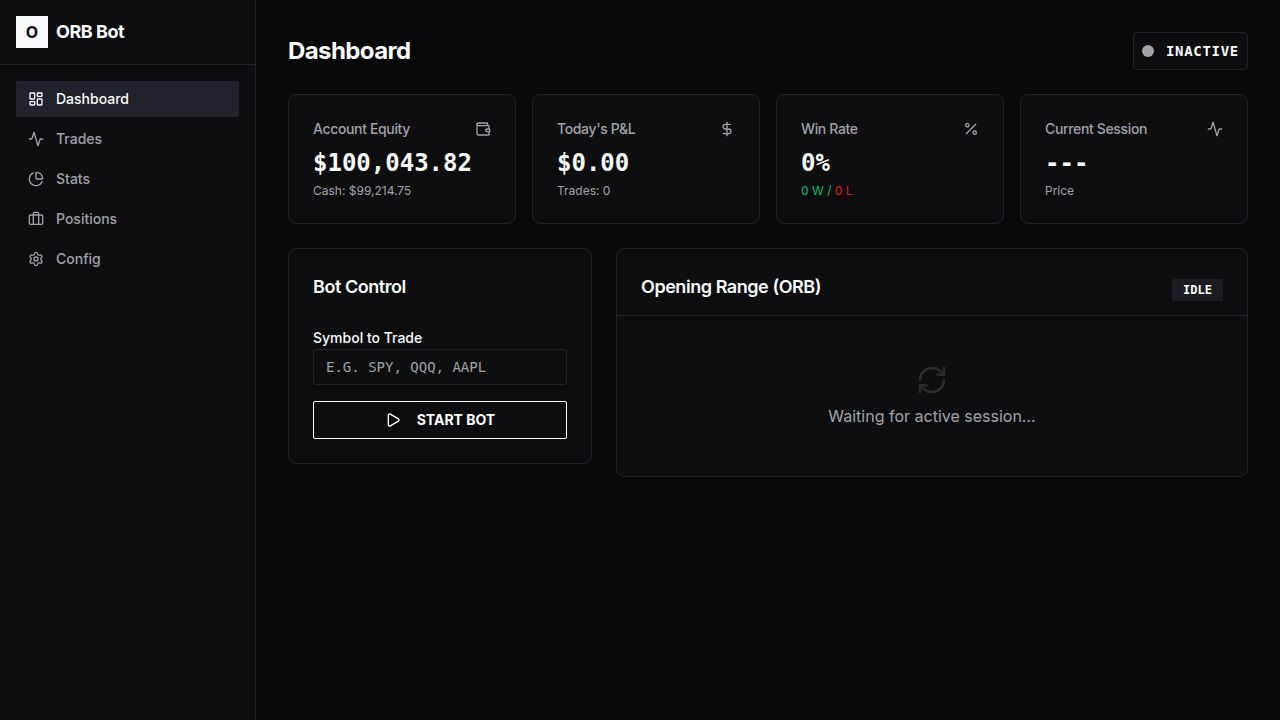
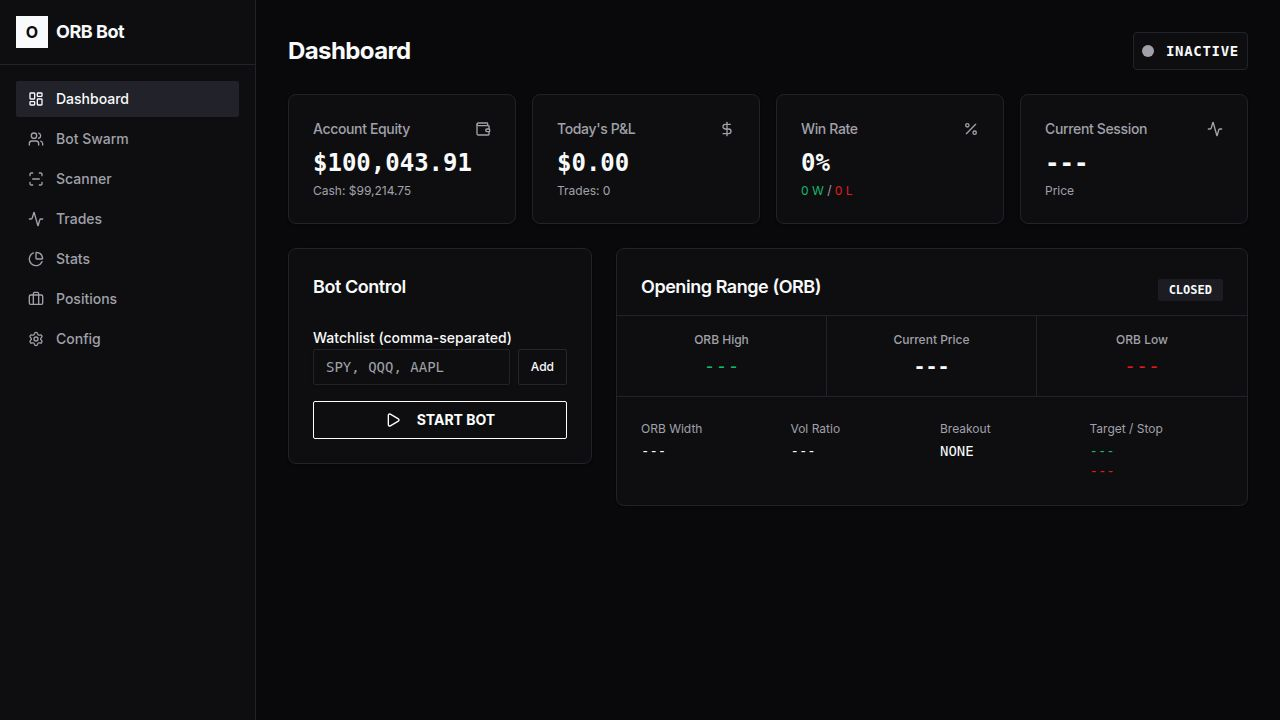
Task #2: Multi-bot dashboard UI — complete full-stack swarm control
All five frontend files changed in this task:

### dashboard.tsx
- Removed legacy useStartBot; all starts now route through useStartBots (POST /bots/start)
- handleStart() merges watchlist chips + inline input into one multi-symbol call
- Button label: "START BOT" for single symbol, "START ALL (N)" for multiple
- Swarm aggregate stats: combined P&L, win rate, active bot count from useListBots
- Active swarm sidebar with per-bot phase badges + P&L
- Status badge: "SWARM: N BOTS ACTIVE" overrides legacy "INACTIVE" when child bots run
- ORB panel hints user to visit Bot Swarm page when swarm is active

### bots.tsx (Bot Swarm page)
- Upgraded from useCreateBot (single) → useStartBots (batch POST /bots/start)
- Multi-symbol watchlist chip UI: type symbols, press Add/Enter/comma to queue chips
- "Launch All (N)" button when multiple symbols queued; "Launch" for single
- BotCard: per-bot stop + spawn-offspring buttons, phase badge, gen badge
- Summary stats bar: total bots, in-trade count, swarm total P&L, max generation
- Empty state with helpful message; skeleton loaders

### scanner.tsx (Gap Scanner page)
- Replaced useCreateBot → useStartBots for per-row "Launch" buttons
- Ranked candidates table: gap%, price, rel vol, prev close
- Top picks highlighted with Star badge
- "Scan Now" + "Auto-Start Bots" header buttons
- Summary cards: scanned count, top picks, gap up/down counts
- 30-second auto-refetch for live results

### config.tsx (Bot Configuration page)
[…]

diff --git a/artifacts/orb-dashboard/src/pages/bots.tsx b/artifacts/orb-dashboard/src/pages/bots.tsx
@@ -1,6 +1,6 @@
 import {
   useListBots,
-  useCreateBot,
+  useStartBots,
   useStopAllBots,
   useStopBot2,
   useSpawnOffspring,
@@ -24,6 +24,7 @@ import {
   TrendingDown,
   CircleDot,
   Users,
+  X,
 } from "lucide-react";
 
 function phaseColor(phase: string) {
@@ -198,15 +199,18 @@ export default function Bots() {
   const { toast } = useToast();
   const queryClient = useQueryClient();
   const [symbolInput, setSymbolInput] = useState("");
+  const [watchlist, setWatchlist] = useState<string[]>([]);
 
   const { data: bots = [], isLoading } = useListBots({
     query: { refetchInterval: 5000 },
   });
 
-  const createBot = useCreateBot({
+  const startBots = useStartBots({
     mutation: {
-      onSuccess: (bot) => {
-        toast({ title: `Bot started for ${bot.symbol}` });
+      onSuccess: (result) => {
+        const count = result.started?.length ?? 0;
+        toast({ title: `${count} bot${count !== 1 ? "s" : ""} started`, description: result.started?.map((b) => b.symbol).join(", ") });
+        setWatchlist([]);
         setSymbolInput("");
         queryClient.invalidateQueries({ queryKey: ["/api/bots"] });
       },
@@ -224,16 +228,28 @@ export default function Bots() {
     },
   });
 
+  const addSymbol = () => {
+    const syms = symbolInput.toUpperCase().split(/[\s,]+/).map((s) => s.trim()).filter(Boolean);
+    const toAdd = syms.filter((s) => !watchlist.includes(s));
+    if (toAdd.length > 0) setWatchlist((prev) => [...prev, ...toAdd]);
+    setSymbolInput("");
+  };
+
+  const removeSymbol = (sym: string) => setWatchlist((prev) => prev.filter((s) => s !== sym));
+
   const handleStart = () => {
-    if (!symbolInput.trim()) {
-      toast({ title: "Symbol required", variant: "destructive" });
+    const inputSyms = symbolInput.toUpperCase().split(/[\s,]+/).map((s) => s.trim()).filter(Boolean);
+    const combined = [...new Set([...watchlist, ...inputSyms])];
+    if (combined.length === 0) {
+      toast({ title: "Symbol required", description: "Enter at least one ticker symbol", variant: "destructive" });
       return;
     }
-    createBot.mutate({ data: { symbol: symbolInput.toUpperCase() } });
+    startBots.mutate({ data: { symbols: combined } });
   };
 
   const activeBots = bots.filter((b) => b.phase !== "closed");
   const inTrade = bots.filter((b) => b.phase === "in_trade");
+  const totalCount = watchlist.length + (symbolInput.trim() ? 1 : 0);
 
   return (
     <div className="space-y-6">
@@ -244,7 +260,7 @@ export default function Bots() {
             <CircleDot className={`h-3 w-3 ${activeBots.length > 0 ? "text-success animate-pulse" : "text-muted-foreground"}`} />
             <span>{activeBots.length} active</span>
             {inTrade.length > 0 && (
-              <span className="text-success font-semibold">{inTrade.length} in trade</span>
+              <span className="text-success font-semibold ml-1">{inTrade.length} in trade</span>
             )}
           </div>
           {bots.length > 0 && (
@@ -260,7 +276,6 @@ export default function Bots() {
         </div>
       </div>
 
-      {/* Summary stats */}
       {bots.length > 0 && (
         <div className="grid grid-cols-2 md:grid-cols-4 gap-3">
           <Card className="bg-card">
@@ -297,7 +312,6 @@ export default function Bots() {
         </div>
       )}
 
-      {/* Launch control */}
       <Card className="bg-card border-border">
         <CardHeader className="pb-2">
           <CardTitle className="text-base flex items-center gap-2">
@@ -305,30 +319,50 @@ export default function Bots() {
           </CardTitle>
         </CardHeader>
         <CardContent>
-          <div className="flex gap-2">
+          <div className="flex gap-2 mb-2">
             <Input
               placeholder="SPY, QQQ, AAPL ..."
               className="font-mono uppercase max-w-xs"
               value={symbolInput}
               onChange={(e) => setSymbolInput(e.target.value)}
-              onKeyDown={(e) => e.key === "Enter" && handleStart()}
+              onKeyDown={(e) => {
+                if (e.key === "Enter" || e.key === ",") {
+                  e.preventDefault();
+                  addSymbol();
+                }
+              }}
             />
+            <Button variant="outline" size="sm" onClick={addSymbol} disabled={!symbolInput.trim()}>
+              Add
+            </Button>
             <Button
               className="bg-success hover:bg-success/90 text-white font-bold"
               onClick={handleStart}
-              disabled={createBot.isPending}
+              disabled={startBots.isPending}
             >
-              <Play className="h-4 w-4 mr-1" /> Launch
+              <Play className="h-4 w-4 mr-1" />
+              {totalCount > 1 ? `Launch All (${totalCount})` : "Launch"}
             </Button>
           </div>
-          <p className="text-xs text-muted-foreground mt-2">
-            Each bot independently tracks its own ORB breakout and evolves its parameters after {" "}
+          {watchlist.length > 0 && (
+            <div className="flex flex-wrap gap-1.5 mb-2">
+              {watchlist.map((sym) => (
+                <span key={sym} className="inline-flex items-center gap-1 px-2 py-0.5 rounded bg-primary/10 text-primary border border-primary/20 text-xs font-mono font-semibold">
+                  {sym}
+                  <button onClick={() => removeSymbol(sym)} className="hover:text-danger transition-colors">
+                    <X className="h-2.5 w-2.5" />
+                  </button>
+                </span>
+              ))}
+            </div>
+          )}
+          <p className="text-xs text-muted-foreground mt-1">
+            Each bot independently tracks its own ORB breakout and evolves its parameters after{" "}
             <span className="text-foreground font-medium">N trades</span>.
           </p>
         </CardContent>
       </Card>
 
-      {/* Bot grid */}
       {isLoading ? (
         <div className="grid grid-cols-1 lg:grid-cols-2 gap-4">
           {[1, 2, 3].map((i) => (

diff --git a/artifacts/orb-dashboard/src/pages/dashboard.tsx b/artifacts/orb-dashboard/src/pages/dashboard.tsx
@@ -1,6 +1,5 @@
 import {
   useGetBotStatus,
-  useStartBot,
   useStopBot,
   useGetCurrentSession,
   useGetSessionSummary,
@@ -59,19 +58,6 @@ export default function Dashboard() {
   const { data: account, isLoading: loadingAccount } = useGetAccount({ query: { refetchInterval: 10000 } });
   const { data: swarmBots = [] } = useListBots({ query: { refetchInterval: 5000 } });
 
-  const startBot = useStartBot({
-    mutation: {
-      onSuccess: () => {
-        toast({ title: "Bot started successfully" });
-        queryClient.invalidateQueries({ queryKey: ["/api/bot/status"] });
-        queryClient.invalidateQueries({ queryKey: ["/api/bots"] });
-      },
-      onError: (err) => {
-        toast({ title: "Failed to start bot", description: String(err), variant: "destructive" });
-      },
-    },
-  });
-
   const startBots = useStartBots({
     mutation: {
       onSuccess: (result) => {
@@ -112,21 +98,20 @@ export default function Dashboard() {
 
   const removeSymbol = (sym: string) => setWatchlist((prev) => prev.filter((s) => s !== sym));
 
-  const handleStartAll = () => {
-    if (watchlist.length === 0) {
-      toast({ title: "No symbols", description: "Add at least one symbol to the watchlist", variant: "destructive" });
+  const handleStart = () => {
+    // Flush any pending input first
+    const inputSyms = symbolInput
+      .toUpperCase()
+      .split(/[\s,]+/)
+      .map((s) => s.trim())
+      .filter(Boolean);
+    const combined = [...new Set([...watchlist, ...inputSyms])];
+    if (combined.length === 0) {
+      toast({ title: "Symbol required", description: "Add at least one symbol to the watchlist", variant: "destructive" });
       return;
     }
-    startBots.mutate({ data: { symbols: watchlist } });
-  };
-
-  const handleStartSingle = () => {
-    const sym = symbolInput.trim().toUpperCase();
-    if (!sym) {
-      toast({ title: "Symbol required", description: "Please enter a symbol to trade", variant: "destructive" });
-      return;
-    }
-    startBot.mutate({ data: { symbol: sym } });
+    startBots.mutate({ data: { symbols: combined } });
+    setWatchlist([]);
     setSymbolInput("");
   };
 
@@ -326,24 +311,16 @@ export default function Dashboard() {
                     )}
                   </div>
 
-                  {watchlist.length > 1 ? (
-                    <Button
-                      className="w-full bg-success hover:bg-success/90 text-white font-bold"
-                      onClick={handleStartAll}
-                      disabled={startBots.isPending}
-                    >
-                      <Play className="mr-2 h-4 w-4" />
-                      START ALL ({watchlist.length})
-                    </Button>
-                  ) : (
-                    <Button
-                      className="w-full bg-success hover:bg-success/90 text-white font-bold"
-                      onClick={watchlist.length === 1 ? handleStartAll : handleStartSingle}
-                      disabled={startBot.isPending || startBots.isPending}
-                    >
-                      <Play className="mr-2 h-4 w-4" /> START BOT
-                    </Button>
-                  )}
+                  <Button
+                    className="w-full bg-success hover:bg-success/90 text-white font-bold"
+                    onClick={handleStart}
+                    disabled={startBots.isPending}
+                  >
+                    <Play className="mr-2 h-4 w-4" />
+                    {watchlist.length + (symbolInput.trim() ? 1 : 0) > 1
+                      ? `START ALL (${watchlist.length + (symbolInput.trim() ? 1 : 0)})`
+                      : "START BOT"}
+                  </Button>
                 </div>
               ) : (
                 <div className="space-y-4">

diff --git a/artifacts/orb-dashboard/src/App.tsx b/artifacts/orb-dashboard/src/App.tsx
@@ -11,25 +11,36 @@ import Positions from "./pages/positions";
 import Bots from "./pages/bots";
 import Scanner from "./pages/scanner";
 import NotFound from "./pages/not-found";
+import { useListBots } from "@workspace/api-client-react";
 
 const queryClient = new QueryClient();
 
+function NavBadge({ count }: { count: number }) {
+  if (count === 0) return null;
+  return (
+    <span className="ml-auto inline-flex items-center justify-center h-4 min-w-[1rem] px-1 rounded-full bg-success/20 text-success text-[10px] font-mono font-bold">
+      {count}
+    </span>
+  );
+}
+
 function Layout({ children }: { children: React.ReactNode }) {
   const [location] = useLocation();
+  const { data: bots = [] } = useListBots({ query: { refetchInterval: 10000 } });
+  const activeBotCount = bots.filter((b) => b.phase !== "closed").length;
 
   const navItems = [
-    { href: "/", label: "Dashboard", icon: LayoutDashboard },
-    { href: "/bots", label: "Bot Swarm", icon: Users },
-    { href: "/scanner", label: "Scanner", icon: ScanLine },
-    { href: "/trades", label: "Trades", icon: Activity },
-    { href: "/stats", label: "Stats", icon: PieChart },
-    { href: "/positions", label: "Positions", icon: Briefcase },
-    { href: "/config", label: "Config", icon: Settings },
+    { href: "/", label: "Dashboard", icon: LayoutDashboard, badge: 0 },
+    { href: "/bots", label: "Bot Swarm", icon: Users, badge: activeBotCount },
+    { href: "/scanner", label: "Scanner", icon: ScanLine, badge: 0 },
+    { href: "/trades", label: "Trades", icon: Activity, badge: 0 },
+    { href: "/stats", label: "Stats", icon: PieChart, badge: 0 },
+    { href: "/positions", label: "Positions", icon: Briefcase, badge: 0 },
+    { href: "/config", label: "Config", icon: Settings, badge: 0 },
   ];
 
   return (
     <div className="min-h-screen bg-background flex flex-col md:flex-row dark">
-      {/* Sidebar */}
       <aside className="w-full md:w-64 bg-card border-r border-border md:min-h-screen flex-shrink-0 flex flex-col">
         <div className="p-4 border-b border-border flex items-center gap-2">
           <div className="w-8 h-8 bg-primary rounded-sm flex items-center justify-center text-primary-foreground font-bold">
@@ -41,24 +52,24 @@ function Layout({ children }: { children: React.ReactNode }) {
           {navItems.map((item) => {
             const isActive = location === item.href;
             return (
-              <Link 
-                key={item.href} 
+              <Link
+                key={item.href}
                 href={item.href}
                 className={`flex items-center gap-3 px-3 py-2 rounded-md text-sm font-medium transition-colors ${
-                  isActive 
-                    ? "bg-accent text-accent-foreground" 
+                  isActive
+                    ? "bg-accent text-accent-foreground"
                     : "text-muted-foreground hover:bg-accent/50 hover:text-foreground"
                 }`}
               >
-                <item.icon className="h-4 w-4" />
+                <item.icon className="h-4 w-4 flex-shrink-0" />
                 <span>{item.label}</span>
+                <NavBadge count={item.badge} />
               </Link>
             );
           })}
         </nav>
       </aside>
 
-      {/* Main Content */}
       <main className="flex-1 flex flex-col min-w-0 overflow-hidden">
         <div className="flex-1 p-4 md:p-6 lg:p-8 overflow-y-auto">
           <div className="mx-auto max-w-7xl">

diff --git a/artifacts/orb-dashboard/src/pages/scanner.tsx b/artifacts/orb-dashboard/src/pages/scanner.tsx
@@ -2,7 +2,7 @@ import {
   useGetScanResults,
   useRunScan,
   useAutoStartBots,
-  useCreateBot,
+  useStartBots,
 } from "@workspace/api-client-react";
 import type { ScanCandidate } from "@workspace/api-client-react";
 import { Card, CardContent, CardHeader, CardTitle } from "@/components/ui/card";
@@ -115,10 +115,11 @@ export default function Scanner() {
     },
   });
 
-  const createBot = useCreateBot({
+  const startBots = useStartBots({
     mutation: {
-      onSuccess: (bot) => {
-        toast({ title: `Bot launched for ${bot.symbol}` });
+      onSuccess: (result) => {
+        const sym = result.started?.map((b) => b.symbol).join(", ");
+        toast({ title: `Bot launched for ${sym}` });
         queryClient.invalidateQueries({ queryKey: ["/api/bots"] });
       },
       onError: (err) => toast({ title: "Error", description: String(err), variant: "destructive" }),
@@ -126,7 +127,7 @@ export default function Scanner() {
   });
 
   const handleLaunch = (symbol: string) => {
-    createBot.mutate({ data: { symbol } });
+    startBots.mutate({ data: { symbols: [symbol] } });
   };
 
   const candidates = scanData?.candidates ?? [];
@@ -210,7 +211,7 @@ export default function Scanner() {
                 key={c.symbol}
                 c={c}
                 onLaunch={handleLaunch}
-                launching={createBot.isPending}
+                launching={startBots.isPending}
               />
             ))}
           </CardContent>
@@ -241,7 +242,7 @@ export default function Scanner() {
                 key={c.symbol}
                 c={c}
                 onLaunch={handleLaunch}
-                launching={createBot.isPending}
+                launching={startBots.isPending}
               />
             ))}
           </CardContent>
